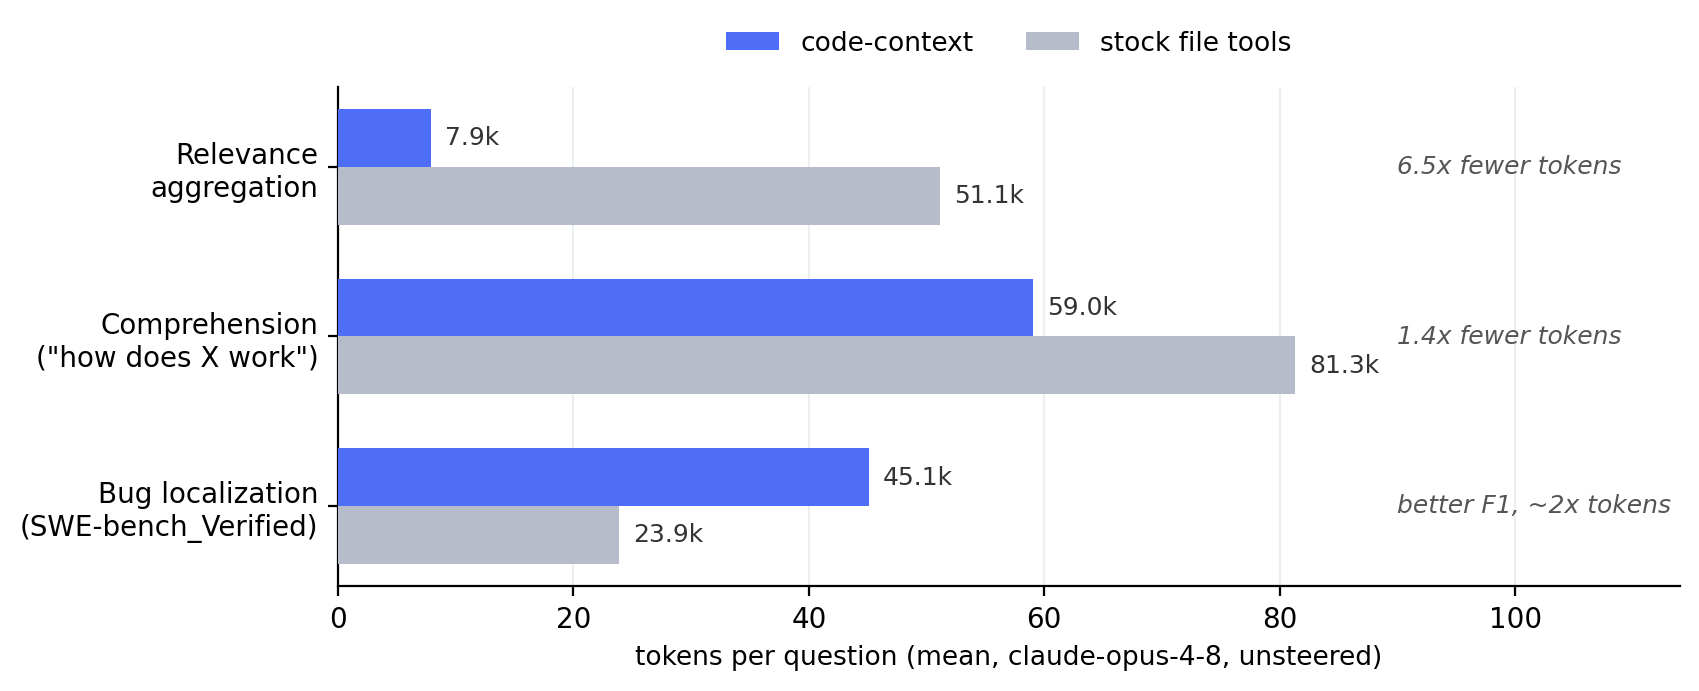
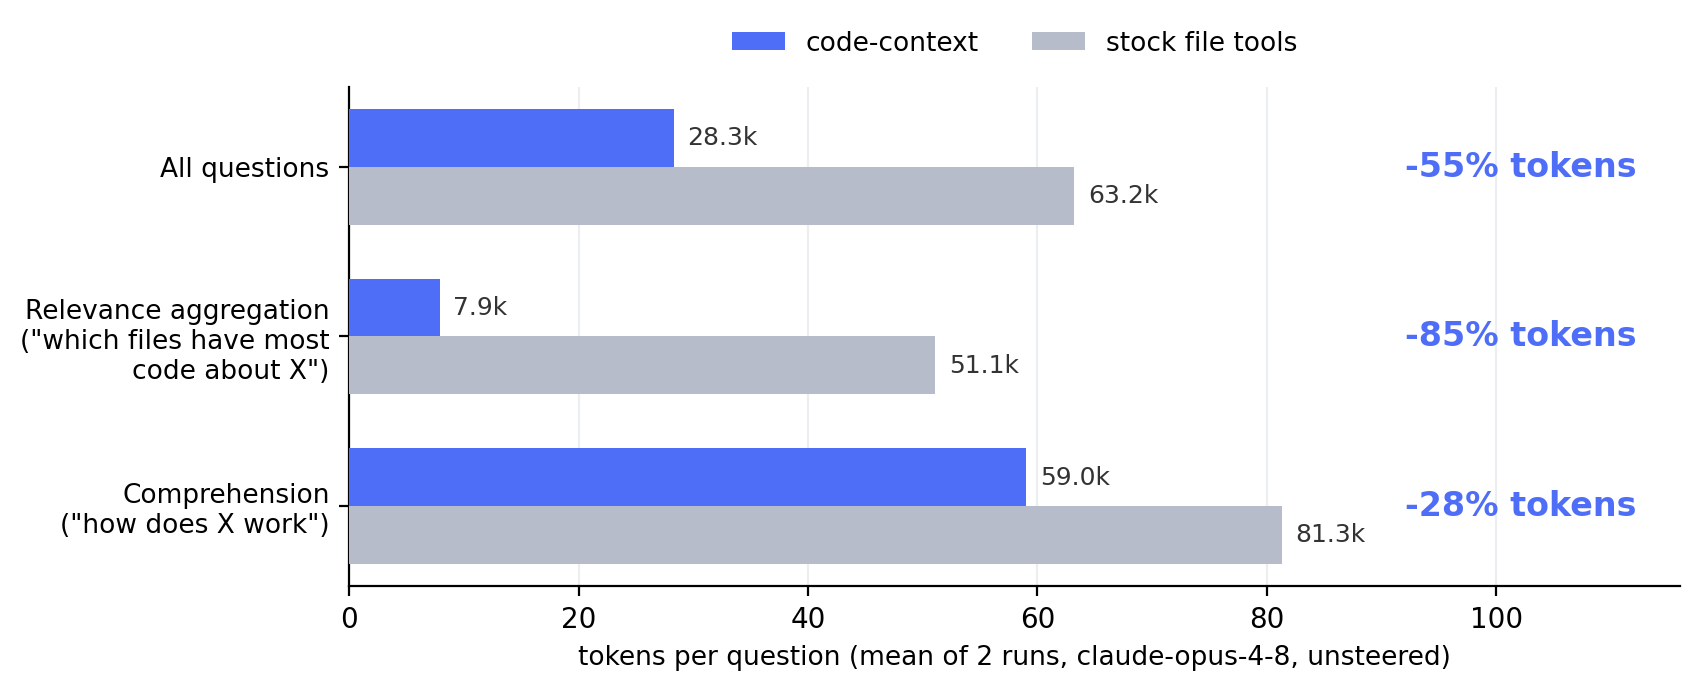
Evaluation presented in percentages; localization reframed around real deployment
- README: the evaluation leads with the suite-level result (55% fewer
  tokens, 71% fewer tool calls, 41% lower cost) and a chart with per-class
  percentages; the SWE-bench study moves to the full benchmark doc.
- benchmark doc: the localization study gains a third lane - both toolsets
  installed, which is what installing an MCP server actually produces.
  Accuracy stays at baseline and the agent mixes tools freely, so adding
  code-context costs nothing on grep's home turf.

diff --git a/docs/benchmark.md b/docs/benchmark.md
@@ -43,10 +43,10 @@ question per lane.
 | 5 | most code about topic A | 11k / 19k | 27k / 26k | 1.7x |
 | 6 | most code about topic B | 6k / 6k | 23k / 41k | 5.0x |
 
-**Class total: 6.5x fewer tokens.** Note the stability: the code-context
-side answers in 5-6k tokens *every* run (one SQL query, deterministic);
-the file-tools side swings 20k-169k depending on how much source the model
-decides to read.
+**Class total: 85% fewer tokens (6.5x).** Note the stability: the
+code-context side answers in 5-6k tokens *every* run (one SQL query,
+deterministic); the file-tools side swings 20k-169k depending on how much
+source the model decides to read.
 
 ## 2. Comprehension - "how does X work"
 
@@ -61,35 +61,41 @@ difference is what it costs to assemble the context.
 | 9 | where fusion is implemented | 27k / 25k | 18k / 24k | 0.8x |
 | 10 | crash recovery behavior | 94k / 86k | 142k / 59k | 1.1x |
 
-**Class total: 1.4x fewer tokens**, with every answer carrying
+**Class total: 28% fewer tokens (1.4x)**, with every answer carrying
 `path:start-end` citations (the hits arrive as ranked chunks with content,
 so answers quote the code they cite). Question 9 is an honest tie-to-loss:
 when one precise grep hits immediately, an index can't beat it.
 
-## 3. Bug localization - SWE-bench_Verified
+**Across the whole suite: 55% fewer tokens, 71% fewer tool calls, 41%
+lower cost** (28.3k vs 63.2k tokens, 2.2 vs 7.5 calls, $0.102 vs $0.174
+per question).
 
-The standardized protocol: 29 instances from
+## 3. Localization study - SWE-bench_Verified
+
+A harder secondary test: 29 instances from
 [SWE-bench_Verified](https://huggingface.co/datasets/princeton-nlp/SWE-bench_Verified)
 (filtered to 15-60-minute difficulty with exactly two modified Python
 files, spanning django, sympy, astropy, scikit-learn, matplotlib, sphinx,
 xarray, pytest, pylint, seaborn). The agent reads the real GitHub issue and
-must name the files the merged fix actually touched. 28 pairs completed
-(one baseline run exhausted its turn budget).
+must name the files the merged fix actually touched.
 
-| | code-context | file tools |
-|---|---|---|
-| F1 vs gold patch files | **0.690** | 0.655 |
-| Recall | **0.571** | 0.536 |
-| Precision | **0.929** | 0.893 |
-| Tool calls per instance | **2.9** | 3.9 |
-| Tokens per instance | 45.1k | **23.9k** |
+Isolated lanes measure the substrate; the third lane is the real
+deployment. An MCP server adds tools and never removes the native ones,
+so an installed agent has both and picks per query.
 
-The honest trade: code-context localizes **more accurately with fewer
-calls** - each `search` returns ranked chunks with content, so the agent
-converges in ~3 calls - but those content-rich responses cost roughly 2x
-the tokens of lean grep output on this question class. Literal
-known-symbol lookup is native grep's home turf; if that's all you do,
-file tools are already good at it.
+| | code-context only | file tools only | both installed |
+|---|---|---|---|
+| F1 vs gold patch files | **0.691** | 0.654 | 0.654 |
+| Tool calls per instance | **2.7** | 3.6 | 3.4 |
+| Tokens per instance | 39.4k | **21.4k** | 35.2k |
+
+Reading it honestly: literal known-symbol lookup is native grep's home
+turf. Lean grep output beats content-rich search hits on tokens for this
+question class, while code-context alone localizes slightly more
+accurately in fewer calls. With both installed the agent mixes freely
+(roughly half its retrieval calls each way) and accuracy stays at
+baseline: installing code-context does not degrade localization, it adds
+the question classes above.
 
 ## Reading the results
 
@@ -97,8 +103,8 @@ file tools are already good at it.
   aggregation has no file-tools equivalent at any budget, and its cost
   doesn't grow with repo size.
 - **Comprehension leans code-context**, with citations for free.
-- **Localization is a quality/cost trade**, slightly better answers for
-  more tokens.
+- **Localization stays native-grep territory**, and adding code-context
+  costs nothing there because native tools remain available.
 - Where file tools win, we say so. Single-run numbers per cell are
   indicative, not gospel - model tool choice varies run to run (the
   aggregation table shows the baseline varying 8x between identical runs).

diff --git a/README.md b/README.md
@@ -55,20 +55,25 @@ Runs on macOS and Linux (x64/arm64, glibc and musl); Windows via WSL.
 
 ## Evaluation
 
-Measured on real agent runs: same model (claude-opus-4-8), same turn
-budget, unsteered, stock file tools as the baseline
-([methodology & full tables](docs/benchmark.md), harness in
-[`bench/`](bench/) so you can run it on your own repo):
+Real agent runs over a codebase-Q&A suite: same model (claude-opus-4-8),
+same turn budget, unsteered, stock file tools (Glob/Grep/Read/LS) as the
+baseline. **55% fewer tokens and 71% fewer tool calls overall**, with the
+same answers and `path:line` citations on every one.
 
 ![Benchmark: tokens per question, code-context vs stock file tools](docs/benchmark-chart.png)
 
-| Question class | Result |
-|---|---|
-| Relevance aggregation: "which files have the most code about X", "break down the codebase" | **6.5x fewer tokens** (per-question 1.7-22x), answered by one SQL query with near-zero variance |
-| Comprehension: "how does X work" | **1.4x fewer tokens**, every answer with `path:line` citations |
-| Bug localization: SWE-bench_Verified protocol | **Better accuracy** (F1 0.69 vs 0.66) in fewer calls, at ~2x the tokens. Content-rich hits cost more than lean grep lines |
+| Metric | Stock file tools | With code-context | Improvement |
+|---|---|---|---|
+| Tokens per question | 63.2k | 28.3k | **-55%** |
+| Tool calls per question | 7.5 | 2.2 | **-71%** |
+| Cost per question | $0.174 | $0.102 | **-41%** |
+| Aggregation questions (tokens) | 51.1k | 7.9k | **-85%** |
+| Comprehension questions (tokens) | 81.3k | 59.0k | **-28%** |
 
-Where file tools win, the tables say so.
+Full methodology, per-question tables, and a SWE-bench_Verified
+localization study are in [docs/benchmark.md](docs/benchmark.md), with the
+harness in [`bench/`](bench/) so you can run the same lanes on your own
+repo. Where file tools win, the tables say so.
 
 ## What you get
 